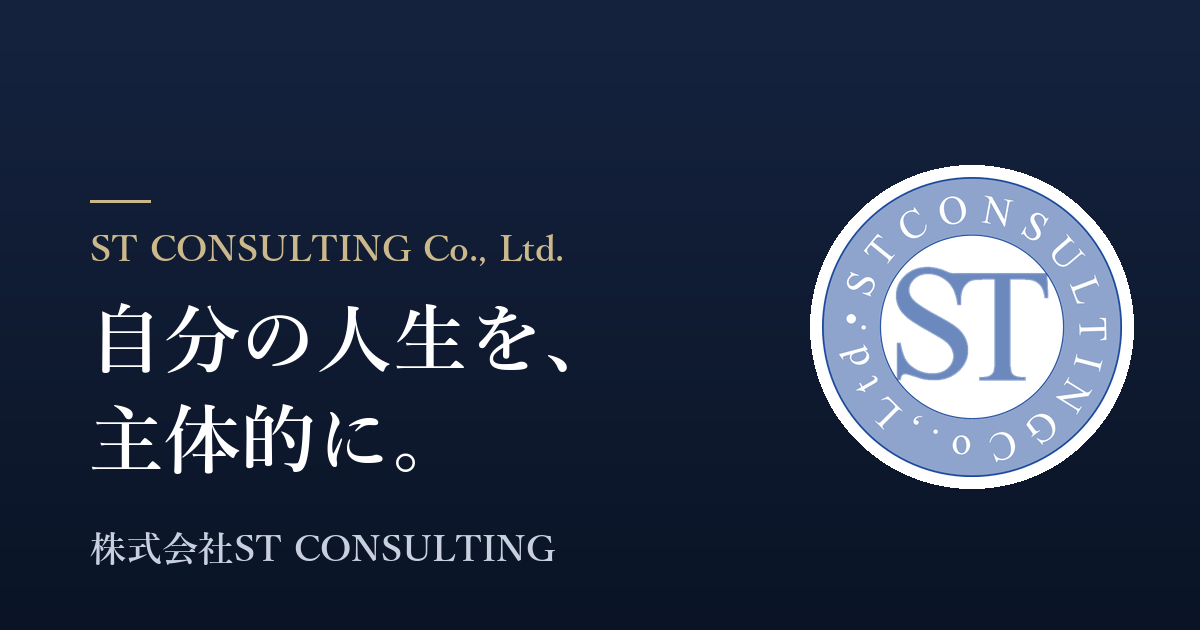
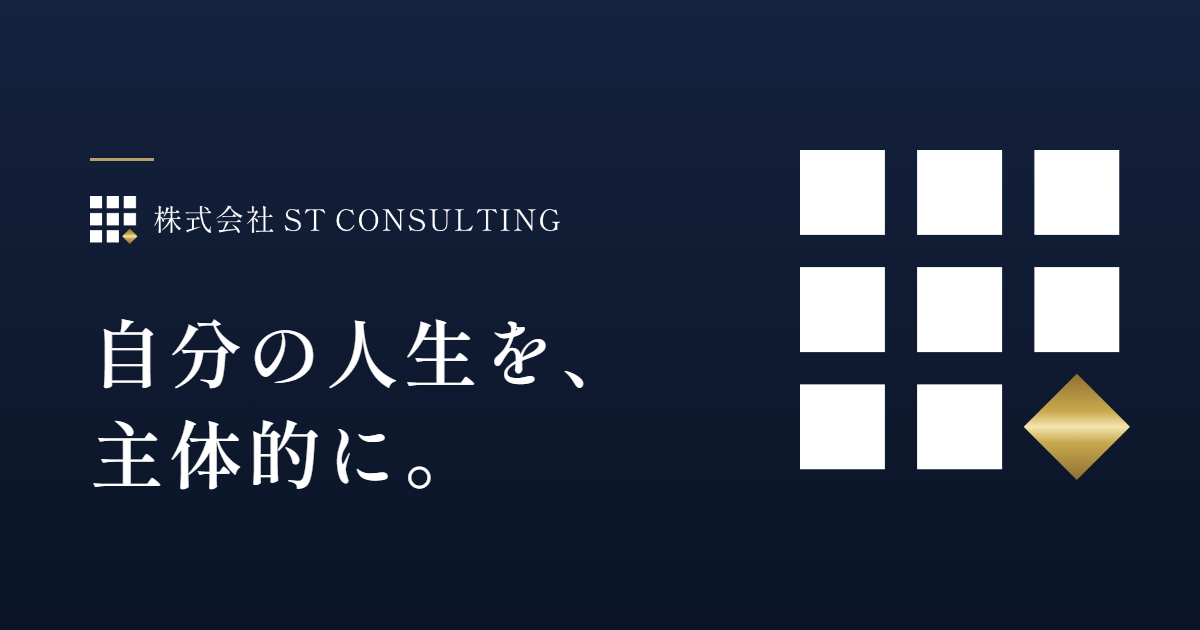
サイト更新 2026-10-16 02:38

diff --git a/index.html b/index.html
@@ -12,7 +12,7 @@
 <meta property="og:site_name" content="株式会社ST CONSULTING">
 <meta property="og:image" content="https://www.st-consul.co.jp/assets/img/ogp.png">
 <meta name="twitter:card" content="summary_large_image">
-<link rel="icon" type="image/png" href="assets/img/logo_blue.png">
+<link rel="icon" type="image/png" href="assets/img/favicon.png">
 <link rel="preconnect" href="https://fonts.googleapis.com">
 <link rel="preconnect" href="https://fonts.gstatic.com" crossorigin>
 <link href="https://fonts.googleapis.com/css2?family=Cormorant+Garamond:ital,wght@0,400;0,500;1,400&family=Shippori+Mincho:wght@400;500;600&display=swap" rel="stylesheet">
@@ -23,9 +23,9 @@
 <!-- ===== Header ===== -->
 <header class="site-header" id="header">
   <div class="header-inner">
-    <a href="index.html" class="header-logo">
-      <img src="assets/img/logo_blue.png" alt="ST CONSULTING ロゴ">
-      <span class="header-logo-text">ST CONSULTING<span class="header-logo-sub">株式会社ST CONSULTING</span></span>
+    <a href="index.html" class="header-logo" aria-label="株式会社ST CONSULTING">
+      <img src="assets/img/logo_full_white.png" alt="株式会社ST CONSULTING" class="logo-on-dark" width="948" height="96">
+      <img src="assets/img/logo_full_color.png" alt="" class="logo-on-light" width="948" height="96" aria-hidden="true">
     </a>
     <nav class="global-nav" id="globalNav" aria-label="メインメニュー">
       <ul>
@@ -57,7 +57,7 @@
     </div>
   </div>
   <div class="hero-logo-bg" aria-hidden="true">
-    <img src="assets/img/logo_gray.png" alt="">
+    <img src="assets/img/logo_mark_gray.png" alt="">
   </div>
   <div class="spot-words" aria-hidden="true">
     <span style="left:40%; top:10%;">変化</span>
@@ -186,7 +186,7 @@
 <!-- ===== Footer ===== -->
 <footer class="site-footer">
   <div class="footer-inner">
-    <img src="assets/img/logo_gray.png" alt="" class="footer-logo">
+    <img src="assets/img/logo_mark_white.png" alt="" class="footer-logo">
     <p class="footer-company">株式会社ST CONSULTING</p>
     <p class="footer-address">東京都渋谷区神宮前六丁目23番4号 桑野ビル2階</p>
     <nav class="footer-nav" aria-label="フッターメニュー">

diff --git a/assets/css/style.css b/assets/css/style.css
@@ -82,41 +82,17 @@ a { color: inherit; text-decoration: none; }
 .header-logo {
   display: flex;
   align-items: center;
-  gap: 14px;
 }
 
-/* 濃紺の背景に沈まないよう、白い円形の下地＋細い白フチを敷く */
+/* 新ロゴ（2026-10-15・案3）: 濃紺の地では白版、スクロール後の白いヘッダーではカラー版を出し分ける */
 .header-logo img {
-  width: 42px;
-  height: 42px;
-  background: var(--white);
-  border-radius: 50%;
-  box-shadow: 0 0 0 2px rgba(255, 255, 255, 0.95), 0 2px 12px rgba(0, 0, 0, 0.35);
+  height: 30px;
+  width: auto;
 }
 
-.site-header.is-scrolled .header-logo img {
-  box-shadow: 0 0 0 2px rgba(255, 255, 255, 0.95), 0 1px 6px rgba(16, 31, 61, 0.15);
-}
-
-.header-logo-text {
-  font-family: var(--serif);
-  font-size: 17px;
-  font-weight: 500;
-  letter-spacing: 0.16em;
-  color: var(--white);
-  display: flex;
-  flex-direction: column;
-  line-height: 1.35;
-  transition: color 0.4s;
-}
-
-.header-logo-sub {
-  font-family: var(--sans);
-  font-size: 9.5px;
-  letter-spacing: 0.22em;
-  color: rgba(255, 255, 255, 0.55);
-  transition: color 0.4s;
-}
+.header-logo .logo-on-light { display: none; }
+.site-header.is-scrolled .header-logo .logo-on-dark { display: none; }
+.site-header.is-scrolled .header-logo .logo-on-light { display: block; }
 
 .global-nav ul {
   display: flex;
@@ -171,8 +147,6 @@ a { color: inherit; text-decoration: none; }
   box-shadow: 0 1px 0 var(--line), 0 4px 24px rgba(16, 31, 61, 0.06);
 }
 
-.site-header.is-scrolled .header-logo-text { color: var(--navy); }
-.site-header.is-scrolled .header-logo-sub { color: var(--ink-soft); }
 .site-header.is-scrolled .global-nav a { color: var(--ink); }
 .site-header.is-scrolled .global-nav .nav-contact {
   color: var(--navy);
@@ -1259,6 +1233,8 @@ body.is-leaving {
 
 @media (max-width: 900px) {
   .pc-only { display: none; }
+
+  .header-logo img { height: 22px; }
 
   .global-nav {
     position: fixed;

diff --git a/about.html b/about.html
@@ -8,7 +8,7 @@
 <meta property="og:site_name" content="株式会社ST CONSULTING">
 <meta property="og:image" content="https://www.st-consul.co.jp/assets/img/ogp.png">
 <meta name="twitter:card" content="summary_large_image">
-<link rel="icon" type="image/png" href="assets/img/logo_blue.png">
+<link rel="icon" type="image/png" href="assets/img/favicon.png">
 <link rel="preconnect" href="https://fonts.googleapis.com">
 <link rel="preconnect" href="https://fonts.gstatic.com" crossorigin>
 <link href="https://fonts.googleapis.com/css2?family=Cormorant+Garamond:ital,wght@0,400;0,500;1,400&family=Shippori+Mincho:wght@400;500;600&display=swap" rel="stylesheet">
@@ -19,9 +19,9 @@
 <!-- ===== Header ===== -->
 <header class="site-header" id="header">
   <div class="header-inner">
-    <a href="index.html" class="header-logo">
-      <img src="assets/img/logo_blue.png" alt="ST CONSULTING ロゴ">
-      <span class="header-logo-text">ST CONSULTING<span class="header-logo-sub">株式会社ST CONSULTING</span></span>
+    <a href="index.html" class="header-logo" aria-label="株式会社ST CONSULTING">
+      <img src="assets/img/logo_full_white.png" alt="株式会社ST CONSULTING" class="logo-on-dark" width="948" height="96">
+      <img src="assets/img/logo_full_color.png" alt="" class="logo-on-light" width="948" height="96" aria-hidden="true">
     </a>
     <nav class="global-nav" id="globalNav" aria-label="メインメニュー">
       <ul>
@@ -135,7 +135,7 @@
 <!-- ===== Footer ===== -->
 <footer class="site-footer">
   <div class="footer-inner">
-    <img src="assets/img/logo_gray.png" alt="" class="footer-logo">
+    <img src="assets/img/logo_mark_white.png" alt="" class="footer-logo">
     <p class="footer-company">株式会社ST CONSULTING</p>
     <p class="footer-address">東京都渋谷区神宮前六丁目23番4号 桑野ビル2階</p>
     <nav class="footer-nav" aria-label="フッターメニュー">

diff --git a/privacy.html b/privacy.html
@@ -9,7 +9,7 @@
 <meta property="og:site_name" content="株式会社ST CONSULTING">
 <meta property="og:image" content="https://www.st-consul.co.jp/assets/img/ogp.png">
 <meta name="twitter:card" content="summary_large_image">
-<link rel="icon" type="image/png" href="assets/img/logo_blue.png">
+<link rel="icon" type="image/png" href="assets/img/favicon.png">
 <link rel="preconnect" href="https://fonts.googleapis.com">
 <link rel="preconnect" href="https://fonts.gstatic.com" crossorigin>
 <link href="https://fonts.googleapis.com/css2?family=Cormorant+Garamond:ital,wght@0,400;0,500;1,400&family=Shippori+Mincho:wght@400;500;600&display=swap" rel="stylesheet">
@@ -20,9 +20,9 @@
 <!-- ===== Header ===== -->
 <header class="site-header" id="header">
   <div class="header-inner">
-    <a href="index.html" class="header-logo">
-      <img src="assets/img/logo_blue.png" alt="ST CONSULTING ロゴ">
-      <span class="header-logo-text">ST CONSULTING<span class="header-logo-sub">株式会社ST CONSULTING</span></span>
+    <a href="index.html" class="header-logo" aria-label="株式会社ST CONSULTING">
+      <img src="assets/img/logo_full_white.png" alt="株式会社ST CONSULTING" class="logo-on-dark" width="948" height="96">
+      <img src="assets/img/logo_full_color.png" alt="" class="logo-on-light" width="948" height="96" aria-hidden="true">
     </a>
     <nav class="global-nav" id="globalNav" aria-label="メインメニュー">
       <ul>
@@ -129,7 +129,7 @@
 <!-- ===== Footer ===== -->
 <footer class="site-footer">
   <div class="footer-inner">
-    <img src="assets/img/logo_gray.png" alt="" class="footer-logo">
+    <img src="assets/img/logo_mark_white.png" alt="" class="footer-logo">
     <p class="footer-company">株式会社ST CONSULTING</p>
     <p class="footer-address">東京都渋谷区神宮前六丁目23番4号 桑野ビル2階</p>
     <nav class="footer-nav" aria-label="フッターメニュー">

diff --git a/service.html b/service.html
@@ -8,7 +8,7 @@
 <meta property="og:site_name" content="株式会社ST CONSULTING">
 <meta property="og:image" content="https://www.st-consul.co.jp/assets/img/ogp.png">
 <meta name="twitter:card" content="summary_large_image">
-<link rel="icon" type="image/png" href="assets/img/logo_blue.png">
+<link rel="icon" type="image/png" href="assets/img/favicon.png">
 <link rel="preconnect" href="https://fonts.googleapis.com">
 <link rel="preconnect" href="https://fonts.gstatic.com" crossorigin>
 <link href="https://fonts.googleapis.com/css2?family=Cormorant+Garamond:ital,wght@0,400;0,500;1,400&family=Shippori+Mincho:wght@400;500;600&display=swap" rel="stylesheet">
@@ -19,9 +19,9 @@
 <!-- ===== Header ===== -->
 <header class="site-header" id="header">
   <div class="header-inner">
-    <a href="index.html" class="header-logo">
-      <img src="assets/img/logo_blue.png" alt="ST CONSULTING ロゴ">
-      <span class="header-logo-text">ST CONSULTING<span class="header-logo-sub">株式会社ST CONSULTING</span></span>
+    <a href="index.html" class="header-logo" aria-label="株式会社ST CONSULTING">
+      <img src="assets/img/logo_full_white.png" alt="株式会社ST CONSULTING" class="logo-on-dark" width="948" height="96">
+      <img src="assets/img/logo_full_color.png" alt="" class="logo-on-light" width="948" height="96" aria-hidden="true">
     </a>
     <nav class="global-nav" id="globalNav" aria-label="メインメニュー">
       <ul>
@@ -160,7 +160,7 @@
 <!-- ===== Footer ===== -->
 <footer class="site-footer">
   <div class="footer-inner">
-    <img src="assets/img/logo_gray.png" alt="" class="footer-logo">
+    <img src="assets/img/logo_mark_white.png" alt="" class="footer-logo">
     <p class="footer-company">株式会社ST CONSULTING</p>
     <p class="footer-address">東京都渋谷区神宮前六丁目23番4号 桑野ビル2階</p>
     <nav class="footer-nav" aria-label="フッターメニュー">

diff --git a/company.html b/company.html
@@ -8,7 +8,7 @@
 <meta property="og:site_name" content="株式会社ST CONSULTING">
 <meta property="og:image" content="https://www.st-consul.co.jp/assets/img/ogp.png">
 <meta name="twitter:card" content="summary_large_image">
-<link rel="icon" type="image/png" href="assets/img/logo_blue.png">
+<link rel="icon" type="image/png" href="assets/img/favicon.png">
 <link rel="preconnect" href="https://fonts.googleapis.com">
 <link rel="preconnect" href="https://fonts.gstatic.com" crossorigin>
 <link href="https://fonts.googleapis.com/css2?family=Cormorant+Garamond:ital,wght@0,400;0,500;1,400&family=Shippori+Mincho:wght@400;500;600&display=swap" rel="stylesheet">
@@ -19,9 +19,9 @@
 <!-- ===== Header ===== -->
 <header class="site-header" id="header">
   <div class="header-inner">
-    <a href="index.html" class="header-logo">
-      <img src="assets/img/logo_blue.png" alt="ST CONSULTING ロゴ">
-      <span class="header-logo-text">ST CONSULTING<span class="header-logo-sub">株式会社ST CONSULTING</span></span>
+    <a href="index.html" class="header-logo" aria-label="株式会社ST CONSULTING">
+      <img src="assets/img/logo_full_white.png" alt="株式会社ST CONSULTING" class="logo-on-dark" width="948" height="96">
+      <img src="assets/img/logo_full_color.png" alt="" class="logo-on-light" width="948" height="96" aria-hidden="true">
     </a>
     <nav class="global-nav" id="globalNav" aria-label="メインメニュー">
       <ul>
@@ -97,7 +97,7 @@
 <!-- ===== Footer ===== -->
 <footer class="site-footer">
   <div class="footer-inner">
-    <img src="assets/img/logo_gray.png" alt="" class="footer-logo">
+    <img src="assets/img/logo_mark_white.png" alt="" class="footer-logo">
     <p class="footer-company">株式会社ST CONSULTING</p>
     <p class="footer-address">東京都渋谷区神宮前六丁目23番4号 桑野ビル2階</p>
     <nav class="footer-nav" aria-label="フッターメニュー">

diff --git a/contact.html b/contact.html
@@ -8,7 +8,7 @@
 <meta property="og:site_name" content="株式会社ST CONSULTING">
 <meta property="og:image" content="https://www.st-consul.co.jp/assets/img/ogp.png">
 <meta name="twitter:card" content="summary_large_image">
-<link rel="icon" type="image/png" href="assets/img/logo_blue.png">
+<link rel="icon" type="image/png" href="assets/img/favicon.png">
 <link rel="preconnect" href="https://fonts.googleapis.com">
 <link rel="preconnect" href="https://fonts.gstatic.com" crossorigin>
 <link href="https://fonts.googleapis.com/css2?family=Cormorant+Garamond:ital,wght@0,400;0,500;1,400&family=Shippori+Mincho:wght@400;500;600&display=swap" rel="stylesheet">
@@ -19,9 +19,9 @@
 <!-- ===== Header ===== -->
 <header class="site-header" id="header">
   <div class="header-inner">
-    <a href="index.html" class="header-logo">
-      <img src="assets/img/logo_blue.png" alt="ST CONSULTING ロゴ">
-      <span class="header-logo-text">ST CONSULTING<span class="header-logo-sub">株式会社ST CONSULTING</span></span>
+    <a href="index.html" class="header-logo" aria-label="株式会社ST CONSULTING">
+      <img src="assets/img/logo_full_white.png" alt="株式会社ST CONSULTING" class="logo-on-dark" width="948" height="96">
+      <img src="assets/img/logo_full_color.png" alt="" class="logo-on-light" width="948" height="96" aria-hidden="true">
     </a>
     <nav class="global-nav" id="globalNav" aria-label="メインメニュー">
       <ul>
@@ -62,7 +62,7 @@
 <!-- ===== Footer ===== -->
 <footer class="site-footer">
   <div class="footer-inner">
-    <img src="assets/img/logo_gray.png" alt="" class="footer-logo">
+    <img src="assets/img/logo_mark_white.png" alt="" class="footer-logo">
     <p class="footer-company">株式会社ST CONSULTING</p>
     <p class="footer-address">東京都渋谷区神宮前六丁目23番4号 桑野ビル2階</p>
     <nav class="footer-nav" aria-label="フッターメニュー">
